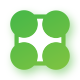
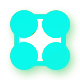
极大优化UI界面，增加软件主色调，首页增加虚拟动态，功能增加Show和我的校园，优化图片

diff --git a/pages/person/home.vue b/pages/person/home.vue
@@ -1,11 +1,11 @@
 <template>
 	<view class="page_content">
 		<view class="header">
-			<image class="btn" src="/static/person/icon_scan.png"></image>
+			
 			<text class="title">我的个人中心</text>
 			<image class="btn" src="/static/person/icon_msg.png"></image>
 		</view>
-		<image class="logo" src="/static/person/head.png"></image>
+		<image class="logo" src="/static/person/pullDown.jpg"></image>
 
 		<swiper @change="swiperChange" previous-margin="50px" next-margin="50px" class="swiper" :indicator-dots="false"
 		 :autoplay="false" :interval="3000" :duration="1000" :current="bigIdx">
@@ -65,22 +65,22 @@
 				title: 'Hello',
 				bigIdx: 1,
 				vips: [{
-					bg: 'linear-gradient(94deg,rgba(150,147,168,1),rgba(150,147,164,1))',
+					bg: 'linear-gradient(94deg,rgba(219,207,202,1),rgba(150,147,164,1))',
 					shadow: '0px 3px 12px 0px rgba(195,164,110,0.23)',
 					title: '普通会员',
 					subTitle: '距离下一等级还差20积分'
 				}, {
-					bg: 'linear-gradient(94deg,rgba(192,160,105,1),rgba(233,213,172,1))',
+					bg: 'linear-gradient(94deg,rgba(147,224,255,1),rgba(199,237,233,1))',
 					shadow: '0px 3px 12px 0px rgba(195,164,110,0.23)',
 					title: '高级会员',
 					subTitle: '距离下一等级还差100积分'
 				}, {
-					bg: 'linear-gradient(94deg,rgba(150,147,168,1),rgba(150,147,164,1))',
+					bg: 'linear-gradient(94deg,rgba(219,207,202,1),rgba(150,147,164,1))',
 					shadow: '0px 3px 12px 0px rgba(195,164,110,0.23)',
 					title: '超级会员',
 					subTitle: '距离下一等级还差200积分'
 				}, {
-					bg: 'linear-gradient(94deg,rgba(150,147,168,1),rgba(150,147,164,1))',
+					bg: 'linear-gradient(94deg,rgba(219,207,202,1),rgba(150,147,164,1))',
 					shadow: '0px 3px 12px 0px rgba(195,164,110,0.23)',
 					title: '钻石会员',
 					subTitle: '距离下一等级还差400积分'

diff --git a/pages/service/home.vue b/pages/service/home.vue
@@ -1,7 +1,7 @@
 <template name="components">
 	<view>
 		<scroll-view scroll-y class="page">
-			<cu-custom bgImage="https://image.weilanwl.com/color2.0/plugin/cjkz2329.jpg">
+			<cu-custom bgImage="/static/微信截图_20191125160241.png">
 				<block slot="content">
 					<image src="/static/cjkz.png" mode="aspectFill" style="width: 240upx;height: 60upx;"></image>
 				</block>
@@ -32,22 +32,22 @@
 				CustomBar: this.CustomBar,
 				list: [{
 						title: '记录身体数据',
-						img: 'https://image.weilanwl.com/color2.0/plugin/sylb2244.jpg',
+						img: '/static/微信截图_20191125155323.png',
 						url: '/pages/service/data_recording'
 					},
 					{
 						title: '发布动态',
-						img: 'https://image.weilanwl.com/color2.0/plugin/wdh2236.jpg',
+						img: '/static/微信截图_20191125155431.png',
 						url: '/pages/service/release_new'
 					},
 					{
 						title: 'Show',
-						img: 'https://image.weilanwl.com/color2.0/plugin/qpct2148.jpg',
+						img: '/static/微信截图_20191125155703.png',
 						url: '/pages/service/show'
 					},
 					{
 						title: '我的校园',
-						img: 'https://image.weilanwl.com/color2.0/plugin/qpczdh2307.jpg',
+						img: '/static/微信截图_20191125154809.png',
 						url: '/pages/service/live'
 					}
 					

diff --git a/colorui/components/newscard.vue b/colorui/components/newscard.vue
@@ -1,6 +1,10 @@
 <template>
 	<view >
-		<cu-custom bgColor="bg-gradual-pink" :isBack="false"><block slot="content">首页</block></cu-custom>
+		<cu-custom bgImage="/static/微信截图_20191125160241.png">
+			<block slot="content">
+				<image src="/static/cjkz_1.png" mode="aspectFill" style="width: 240upx;height: 60upx;"></image>
+			</block>
+		</cu-custom>
 		
 		
 		<view v-for="(item,index) in reciveUserInfo" :key="index" class="cu-card case" :class="isCard?'no-card':''" >

diff --git a/colorui/main.css b/colorui/main.css
@@ -3574,7 +3574,7 @@ scroll-view.cu-steps .cu-item {
 }
 
 .bg-gradual-blue {
-	background-image: linear-gradient(45deg, #0081ff, #1cbbb4);
+	background-image: linear-gradient(45deg, #86D2DE, #1cbbb4);
 	color: #ffffff;
 }
 
